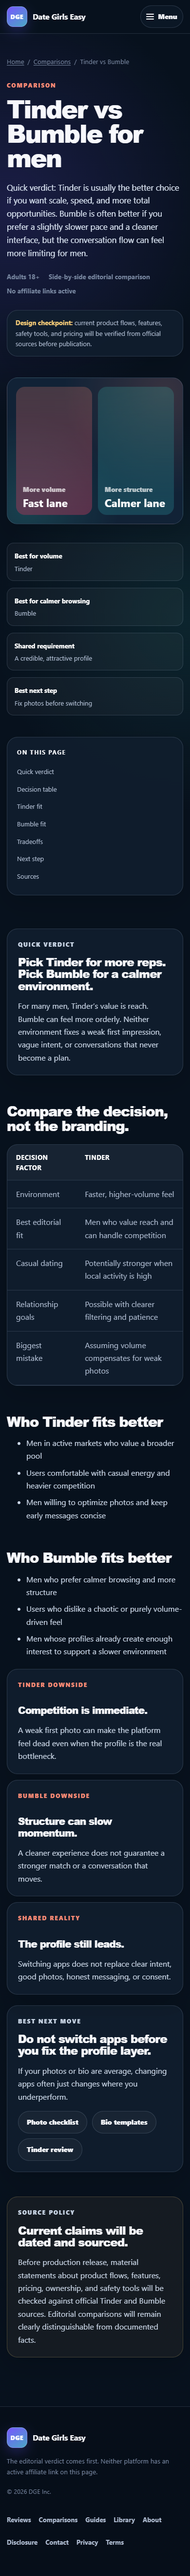
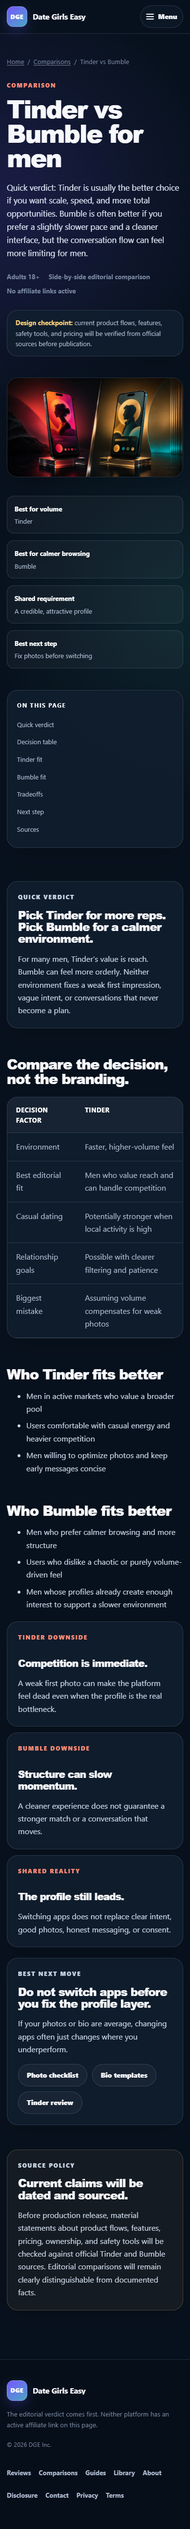
feat: integrate representative editorial imagery

Changed region(s): [[0.0308, 0.0311, 0.9846, 0.9961], [0.3692, 0.9339, 0.4615, 0.965]]

diff --git a/comparisons/tinder-vs-bumble.html b/comparisons/tinder-vs-bumble.html
@@ -14,11 +14,12 @@
     <meta property="og:description" content="A quick verdict and practical side-by-side comparison of Tinder versus Bumble for men." />
     <meta property="og:type" content="article" />
     <meta property="og:url" content="https://dategirlseasy.com/comparisons/tinder-vs-bumble.html" />
-    <meta property="og:image" content="https://dategirlseasy.com/assets/og/default.png" />
+    <meta property="og:image" content="https://dategirlseasy.com/assets/images/comparisons/tinder-vs-bumble-app-paths.jpg" />
     <meta name="twitter:card" content="summary_large_image" />
     <meta name="twitter:title" content="Tinder vs Bumble for Men | Date Girls Easy" />
     <meta name="twitter:description" content="Which app fits men better for casual volume versus slower, more filtered conversations." />
-    <meta name="twitter:image" content="https://dategirlseasy.com/assets/og/default.png" />
+    <meta name="twitter:image" content="https://dategirlseasy.com/assets/images/comparisons/tinder-vs-bumble-app-paths.jpg" />
+    <link rel="preload" as="image" href="/assets/images/comparisons/tinder-vs-bumble-app-paths-960.webp" type="image/webp" fetchpriority="high" />
     <link rel="stylesheet" href="/design-v2.css" />
     <script>document.documentElement.className = "js";</script>
     <script type="application/ld+json">
@@ -60,10 +61,9 @@
             <div class="meta-row"><span>Adults 18+</span><span>Side-by-side editorial comparison</span><span>No affiliate links active</span></div>
             <p class="checkpoint-note"><strong>Design checkpoint:</strong> current product flows, features, safety tools, and pricing will be verified from official sources before publication.</p>
           </div>
-          <div class="decision-visual comparison-visual" role="img" aria-label="Abstract side-by-side comparison of a faster dating environment and a calmer dating environment">
-            <div class="choice-column"><small>More volume</small><strong>Fast lane</strong></div>
-            <div class="choice-column"><small>More structure</small><strong>Calmer lane</strong></div>
-          </div>
+          <figure class="decision-visual editorial-image-frame ratio-16-9">
+            <picture><source type="image/webp" srcset="/assets/images/comparisons/tinder-vs-bumble-app-paths-640.webp 640w, /assets/images/comparisons/tinder-vs-bumble-app-paths-960.webp 960w" sizes="(max-width: 800px) calc(100vw - 28px), 430px" /><img src="/assets/images/comparisons/tinder-vs-bumble-app-paths.jpg" width="960" height="540" alt="Two abstract dating app choices shown side by side" loading="eager" fetchpriority="high" /></picture>
+          </figure>
         </header>
 
         <div class="quick-grid" aria-label="Quick comparison facts"><div><strong>Best for volume</strong><span>Tinder</span></div><div><strong>Best for calmer browsing</strong><span>Bumble</span></div><div><strong>Shared requirement</strong><span>A credible, attractive profile</span></div><div><strong>Best next step</strong><span>Fix photos before switching</span></div></div>

diff --git a/ebooks/profile-and-photos/internet-dating-guide-for-men.html b/ebooks/profile-and-photos/internet-dating-guide-for-men.html
@@ -14,11 +14,12 @@
     <meta property="og:description" content="A practical long-form system for choosing an app, improving your profile, starting conversations, and getting to a real date." />
     <meta property="og:type" content="article" />
     <meta property="og:url" content="https://dategirlseasy.com/ebooks/profile-and-photos/internet-dating-guide-for-men.html" />
-    <meta property="og:image" content="https://dategirlseasy.com/assets/og/default.png" />
+    <meta property="og:image" content="https://dategirlseasy.com/assets/images/ebooks/internet-dating-guide-city-meet.jpg" />
     <meta name="twitter:card" content="summary_large_image" />
     <meta name="twitter:title" content="Internet Dating Guide for Men | Date Girls Easy" />
     <meta name="twitter:description" content="Platform choice, stronger profiles, better messages, and confident, respectful pacing." />
-    <meta name="twitter:image" content="https://dategirlseasy.com/assets/og/default.png" />
+    <meta name="twitter:image" content="https://dategirlseasy.com/assets/images/ebooks/internet-dating-guide-city-meet.jpg" />
+    <link rel="preload" as="image" href="/assets/images/ebooks/internet-dating-guide-city-meet-960.webp" type="image/webp" fetchpriority="high" />
     <link rel="stylesheet" href="/design-v2.css" />
     <script>document.documentElement.className = "js";</script>
     <script type="application/ld+json">
@@ -66,10 +67,9 @@
             <div class="meta-row"><span>Audience: adults 18+</span><span>Original modern edition</span><span>Editorial review: August 2026</span></div>
             <p class="checkpoint-note"><strong>Editorial note:</strong> this is original web content informed by broad dating concepts. It does not reproduce archive text, protected titles, claims, or illustrations.</p>
           </div>
-          <div class="decision-visual" role="img" aria-label="Abstract dating profile workflow from profile card to conversation to date invitation">
-            <p class="eyebrow">The dating stack</p>
-            <div class="decision-phone"><div class="profile-card"><span class="profile-lines" aria-hidden="true"><i></i><i></i></span></div></div>
-          </div>
+          <figure class="decision-visual editorial-image-frame ratio-16-9">
+            <picture><source type="image/webp" srcset="/assets/images/ebooks/internet-dating-guide-city-meet-640.webp 640w, /assets/images/ebooks/internet-dating-guide-city-meet-960.webp 960w" sizes="(max-width: 800px) calc(100vw - 28px), 430px" /><img src="/assets/images/ebooks/internet-dating-guide-city-meet.jpg" width="960" height="540" alt="Adult man checking his phone before meeting a date in the city" loading="eager" fetchpriority="high" /></picture>
+          </figure>
         </header>
 
         <div class="quick-grid" aria-label="Guide roadmap">

diff --git a/reviews/tinder.html b/reviews/tinder.html
@@ -14,11 +14,12 @@
     <meta property="og:description" content="A direct Tinder review covering fit, downside risk, and what to improve before blaming the app." />
     <meta property="og:type" content="article" />
     <meta property="og:url" content="https://dategirlseasy.com/reviews/tinder.html" />
-    <meta property="og:image" content="https://dategirlseasy.com/assets/og/default.png" />
+    <meta property="og:image" content="https://dategirlseasy.com/assets/images/reviews/review-app-choice-editorial.jpg" />
     <meta name="twitter:card" content="summary_large_image" />
     <meta name="twitter:title" content="Tinder Review for Men | Date Girls Easy" />
     <meta name="twitter:description" content="Who Tinder is for, who should avoid it, and the most useful guides to pair with it." />
-    <meta name="twitter:image" content="https://dategirlseasy.com/assets/og/default.png" />
+    <meta name="twitter:image" content="https://dategirlseasy.com/assets/images/reviews/review-app-choice-editorial.jpg" />
+    <link rel="preload" as="image" href="/assets/images/reviews/review-app-choice-editorial-960.webp" type="image/webp" fetchpriority="high" />
     <link rel="stylesheet" href="/design-v2.css" />
     <script>document.documentElement.className = "js";</script>
     <script type="application/ld+json">
@@ -66,10 +67,9 @@
             <div class="meta-row"><span>Audience: adults 18+</span><span>Editorial format: fit review</span><span>No affiliate link active</span></div>
             <p class="checkpoint-note"><strong>Design checkpoint:</strong> current Tinder features, pricing, safety tools, and policies will be verified against official sources before production release.</p>
           </div>
-          <div class="decision-visual" role="img" aria-label="Abstract phone showing a dating profile card for a platform-choice decision">
-            <p class="eyebrow">Platform fit</p>
-            <div class="decision-phone"><div class="profile-card"><span class="profile-lines" aria-hidden="true"><i></i><i></i></span></div></div>
-          </div>
+          <figure class="decision-visual editorial-image-frame ratio-3-2">
+            <picture><source type="image/webp" srcset="/assets/images/reviews/review-app-choice-editorial-640.webp 640w, /assets/images/reviews/review-app-choice-editorial-960.webp 960w" sizes="(max-width: 800px) calc(100vw - 28px), 430px" /><img src="/assets/images/reviews/review-app-choice-editorial.jpg" width="960" height="640" alt="Adult man comparing abstract dating app choices on his phone" loading="eager" fetchpriority="high" /></picture>
+          </figure>
         </header>
 
         <div class="quick-grid" aria-label="Quick review facts">

diff --git a/guides/openers-that-get-replies.html b/guides/openers-that-get-replies.html
@@ -85,6 +85,10 @@
               <p>Reference something visible, add a little point of view, and stop. Attraction grows through a good exchange, not through a paragraph designed to prove your value. Your first message should feel personal without pretending you already know her.</p>
             </section>
 
+            <figure class="editorial-figure infographic-figure">
+              <picture><source type="image/webp" srcset="/assets/images/guides/openers-message-flow-framework-640.webp 640w, /assets/images/guides/openers-message-flow-framework-960.webp 960w" sizes="(max-width: 800px) calc(100vw - 28px), 720px" /><img src="/assets/images/guides/openers-message-flow-framework.png" width="960" height="1440" alt="Four-step message flow from observation to a playful hook, easy question, and respectful exit" loading="lazy" decoding="async" /></picture>
+            </figure>
+
             <h2 id="examples">Four opener styles that feel natural</h2>
             <div class="principle-grid">
               <section class="example-card"><p class="eyebrow">Profile detail</p><h3 class="panel-title">“That jazz-bar photo looks dangerous for my sleep schedule. Worth it?”</h3><p>Use when there is a distinctive place, hobby, or story in her profile.</p></section>

diff --git a/design-v2.css b/design-v2.css
@@ -727,6 +727,55 @@ body.design-v2::before {
     var(--panel-strong);
 }
 
+.editorial-image-frame {
+  min-height: 0;
+  margin: 0;
+  padding: 0;
+  border: 1px solid var(--line);
+  border-radius: var(--radius);
+  background: #07101a;
+}
+
+.editorial-image-frame picture,
+.editorial-image-frame img {
+  display: block;
+  width: 100%;
+  height: 100%;
+}
+
+.editorial-image-frame img {
+  object-fit: cover;
+}
+
+.editorial-image-frame.ratio-3-2 {
+  aspect-ratio: 3 / 2;
+}
+
+.editorial-image-frame.ratio-16-9 {
+  aspect-ratio: 16 / 9;
+}
+
+.editorial-figure {
+  margin: 34px 0;
+  overflow: hidden;
+  border: 1px solid var(--line);
+  border-radius: var(--radius);
+  background: var(--panel-strong);
+  box-shadow: var(--shadow);
+}
+
+.editorial-figure picture,
+.editorial-figure img {
+  display: block;
+  width: 100%;
+  height: auto;
+}
+
+.infographic-figure {
+  width: min(100%, 720px);
+  margin-inline: auto;
+}
+
 .decision-phone {
   width: min(250px, 82%);
   margin: 22px auto 0;

diff --git a/IMAGE-REQUESTS-BATCH-01.md b/IMAGE-REQUESTS-BATCH-01.md
@@ -22,6 +22,8 @@ Editorial rationale: the homepage hero should visualize the reader's desired soc
 
 ## IMAGE REQUEST 002 — Tinder review decision visual
 
+Status: master supplied and integrated. Responsive 640px and 960px WebP delivery files were generated beside the untouched JPG master.
+
 - Target: Tinder review, verdict section; communicate platform choice rather than endorsement.
 - Subject: adult man comparing two abstract phone screens with profile-card shapes; no real app trademarks or copied interface.
 - Composition: over-the-shoulder, phone and decision moment prominent.
@@ -34,6 +36,8 @@ Editorial rationale: the homepage hero should visualize the reader's desired soc
 - Mobile crop: keep phone and face within center 65%.
 
 ## IMAGE REQUEST 003 — Tinder vs Bumble comparison
+
+Status: master supplied and integrated. Responsive 640px and 960px WebP delivery files were generated beside the untouched JPG master.
 
 - Target: comparison page, side-by-side decision section.
 - Subject: editorial still life with two phones represented by contrasting warm and cool abstract interfaces.
@@ -48,6 +52,8 @@ Editorial rationale: the homepage hero should visualize the reader's desired soc
 
 ## IMAGE REQUEST 004 — Openers guide message-flow illustration
 
+Status: master supplied and integrated. Responsive 640px and 960px WebP delivery files were generated beside the untouched PNG master.
+
 - Target: openers guide, example section; make the conversation framework visual.
 - Subject: original message-flow graphic showing observation, playful hook, easy question, and a respectful exit.
 - Composition: four connected message cards with generous spacing; no actual platform UI.
@@ -60,6 +66,8 @@ Editorial rationale: the homepage hero should visualize the reader's desired soc
 - Mobile crop: full graphic should scale without cropping.
 
 ## IMAGE REQUEST 005 — Long-form guide chapter opener
+
+Status: master supplied and integrated. Responsive 640px and 960px WebP delivery files were generated beside the untouched JPG master.
 
 - Target: Internet Dating Guide, opening and social card.
 - Subject: adult man in an urban evening setting checking his phone before meeting a date; calm anticipation rather than staged romance.

diff --git a/CHANGELOG-PROJECT.md b/CHANGELOG-PROJECT.md
@@ -14,3 +14,4 @@
 - Captured permanent desktop and phone-width before/after screenshots. No production deployment or push occurred.
 - Revised Homepage IMAGE REQUEST 001 after owner feedback: the intended hero subject is now an alluring adult woman rather than a male model, with mainstream-safe sensuality and no implied endorsement or availability.
 - Integrated the owner-selected `assets/hero.jpg` without generative alteration. Added art-directed 4:5 desktop and 4:3 phone/tablet WebP derivatives, responsive source selection, corrected intrinsic sizing, and removed the internal provenance warning from the visible image overlay while retaining the approval gate in project documentation.
+- Integrated the four remaining owner-supplied image masters into the representative review, comparison, tactical guide, and long-form guide. Generated 640px and 960px WebP delivery variants, retained every JPG/PNG master unchanged, added responsive source selection and alt text, and replaced the temporary abstract hero visuals where appropriate.
